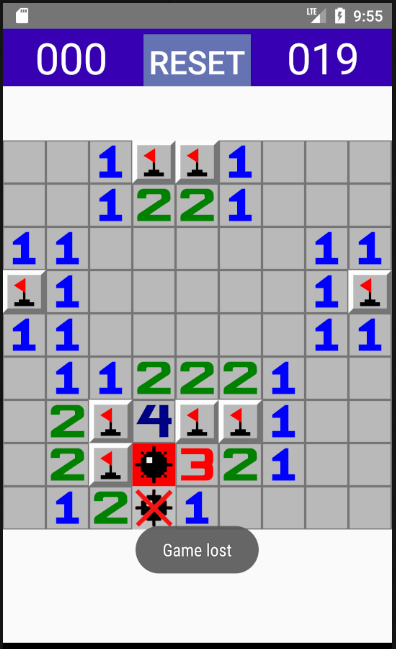
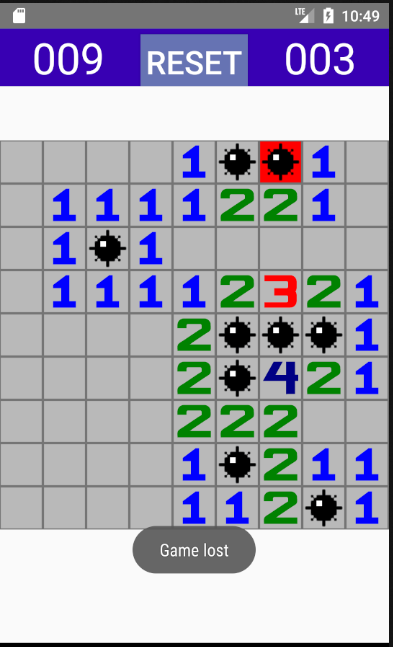
change mine images

diff --git a/app/src/main/java/com/github/mlee0967/minesweeper/game/views/Cell.java b/app/src/main/java/com/github/mlee0967/minesweeper/game/views/Cell.java
@@ -85,17 +85,17 @@ public class Cell extends View implements View.OnClickListener , View.OnLongClic
         super.onDraw(canvas);
         if(flagged){
             if(Game.getInstance().isGameOver() && !mine)
-                drawBombCrossed(canvas);
+                drawMineCrossed(canvas);
             else
                 drawFlag(canvas);
         }else if(clicked){
             if(mine)
-                drawBombExploded(canvas);
+                drawMineExploded(canvas);
             else
                 drawNumber(canvas);
         }else if(revealed){
             if(mine)
-                drawBomb(canvas);
+                drawMine(canvas);
             else
                 drawNumber(canvas);
         }else
@@ -114,20 +114,20 @@ public class Cell extends View implements View.OnClickListener , View.OnLongClic
         drawable.draw(canvas);
     }
 
-    private void drawBomb(Canvas canvas){
-        Drawable drawable = ContextCompat.getDrawable(getContext(), R.drawable.bomb);
+    private void drawMine(Canvas canvas){
+        Drawable drawable = ContextCompat.getDrawable(getContext(), R.drawable.mine);
         drawable.setBounds(0,0,getWidth(),getHeight());
         drawable.draw(canvas);
     }
 
-    private void drawBombCrossed(Canvas canvas){
-        Drawable drawable = ContextCompat.getDrawable(getContext(), R.drawable.bomb_crossed);
+    private void drawMineCrossed(Canvas canvas){
+        Drawable drawable = ContextCompat.getDrawable(getContext(), R.drawable.mine_crossed);
         drawable.setBounds(0,0,getWidth(),getHeight());
         drawable.draw(canvas);
     }
 
-    private void drawBombExploded(Canvas canvas){
-        Drawable drawable = ContextCompat.getDrawable(getContext(), R.drawable.bomb_exploded);
+    private void drawMineExploded(Canvas canvas){
+        Drawable drawable = ContextCompat.getDrawable(getContext(), R.drawable.mine_exploded);
         drawable.setBounds(0,0,getWidth(),getHeight());
         drawable.draw(canvas);
     }
